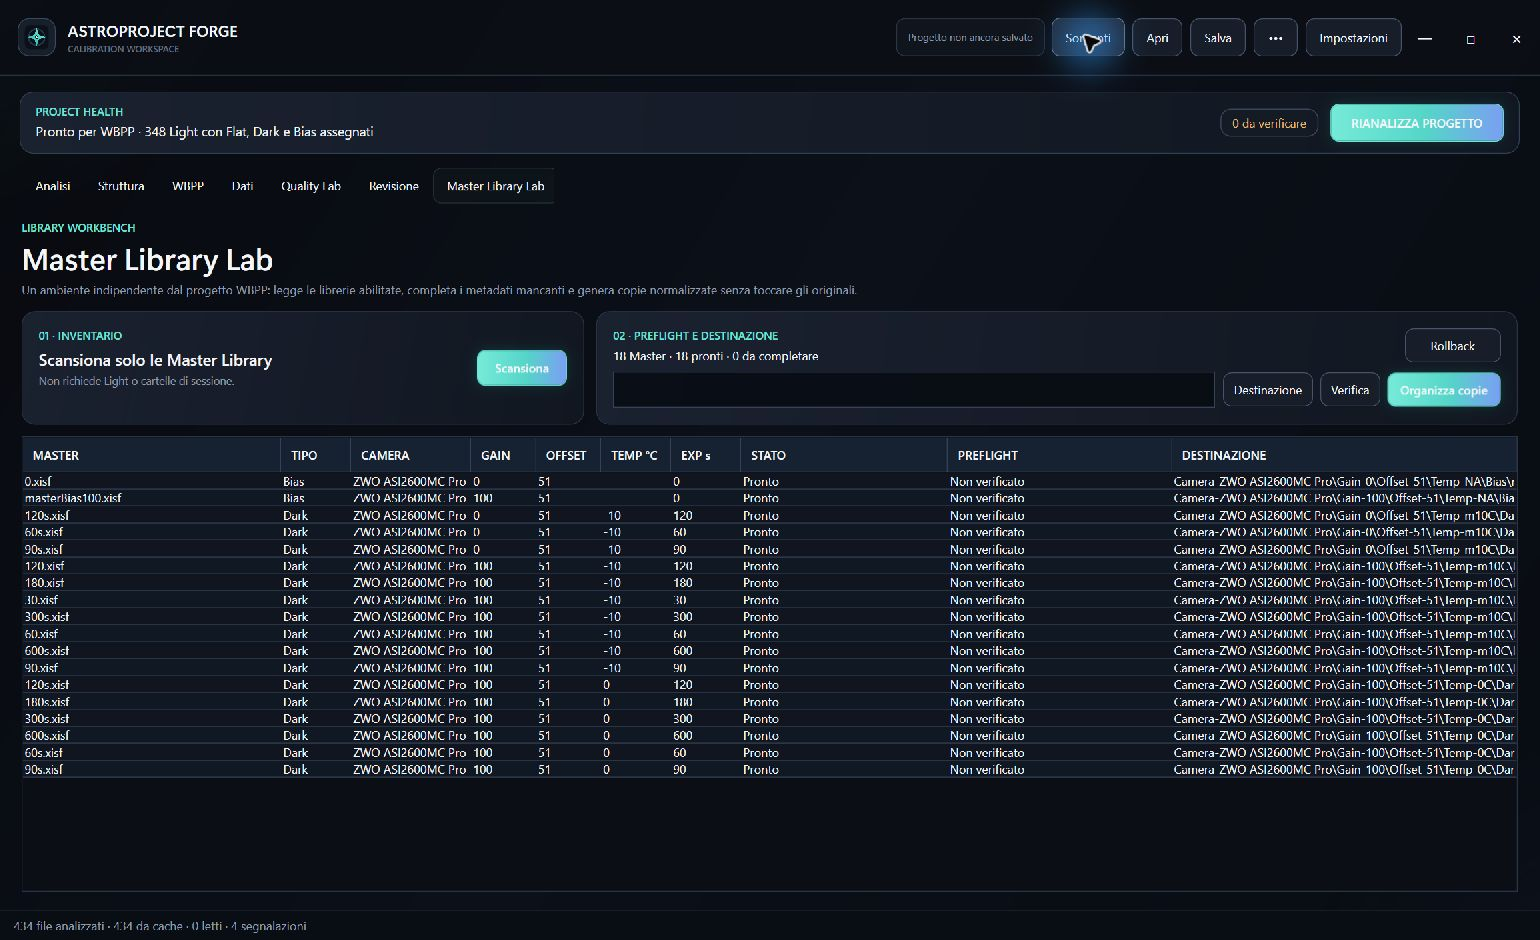
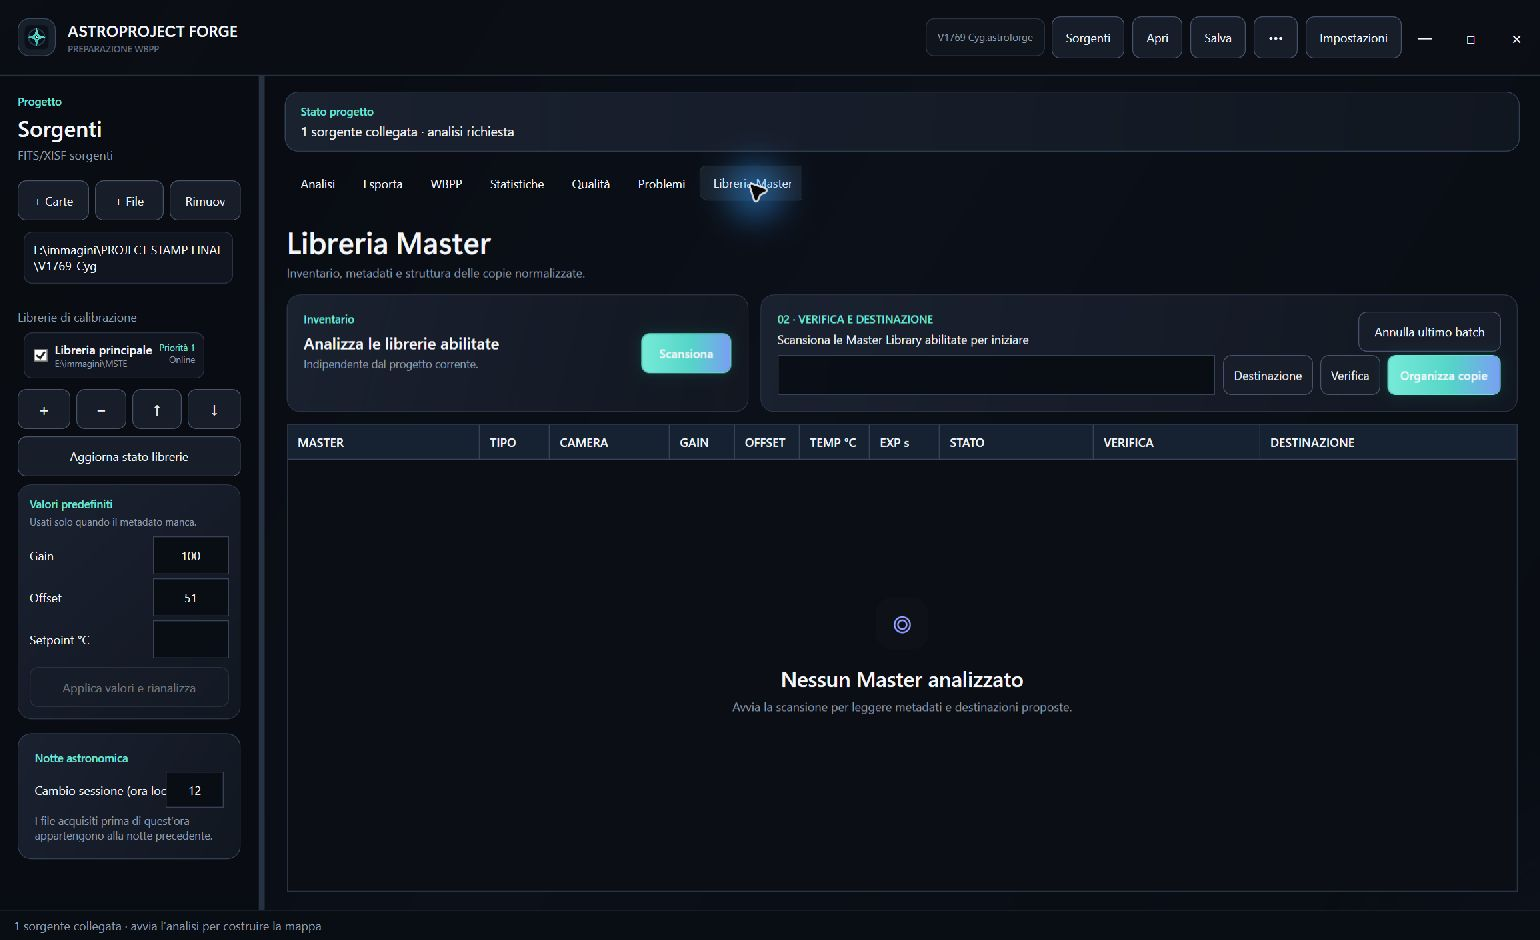
release: prepare 0.9.0-beta.2

diff --git a/dotnet/AstroForge.App/MainWindow.xaml.cs b/dotnet/AstroForge.App/MainWindow.xaml.cs
@@ -243,6 +243,7 @@ public partial class MainWindow : Window
     private async void MainWindow_Loaded(object sender, RoutedEventArgs e)
     {
         ApplyUiPreferences();
+        UpdateWorkspaceContext();
         if (!_viewModel.ReducedMotion)
         {
             RootSurface.Opacity = 0;
@@ -256,12 +257,20 @@ public partial class MainWindow : Window
 
     private void WorkspaceTabs_SelectionChanged(object sender, System.Windows.Controls.SelectionChangedEventArgs e)
     {
-        if (e.Source != WorkspaceTabs) return;
-        var header = (WorkspaceTabs.SelectedItem as System.Windows.Controls.TabItem)?.Header?.ToString() ?? "";
-        _inspectorContextAvailable = header is "Analisi" or "Struttura" or "Revisione";
-        if (!header.Contains("QUALITY", StringComparison.OrdinalIgnoreCase)) StopBlink();
+        if (!IsLoaded) return;
+        Dispatcher.BeginInvoke(new Action(() =>
+        {
+            UpdateWorkspaceContext();
+            AnimateWorkspaceTransition();
+        }), DispatcherPriority.Loaded);
+    }
+
+    private void UpdateWorkspaceContext()
+    {
+        var selectedTab = WorkspaceTabs.SelectedItem as System.Windows.Controls.TabItem;
+        _inspectorContextAvailable = string.Equals(selectedTab?.Tag?.ToString(), "Inspector", StringComparison.Ordinal);
+        if (!string.Equals(selectedTab?.Header?.ToString(), "Qualità", StringComparison.Ordinal)) StopBlink();
         ApplyResponsiveLayout();
-        AnimateWorkspaceTransition();
     }
 
     private void AnimateWorkspaceTransition()
@@ -589,9 +598,9 @@ public partial class MainWindow : Window
 
     private async void RollbackMasterOrganizer_Click(object sender, RoutedEventArgs e)
     {
-        if (MessageBox.Show(this, "Annullare l’ultimo batch creato da AstroProject Forge? Verranno eliminate soltanto le copie elencate nel manifest e solo se i loro hash sono invariati. Gli originali non saranno toccati.", "Rollback Master Library", MessageBoxButton.YesNo, MessageBoxImage.Warning) != MessageBoxResult.Yes) return;
-        try { await _viewModel.RollbackMasterOrganizerAsync(); MessageBox.Show(this, _viewModel.MasterOrganizerStatus, "Rollback completato", MessageBoxButton.OK, MessageBoxImage.Information); }
-        catch (Exception exception) { ShowError("AF-MASTER-ROLLBACK-001", "Rollback interrotto", exception, MessageBoxImage.Warning); }
+        if (MessageBox.Show(this, "Annullare l’ultimo batch? Verranno rimosse soltanto le copie elencate nel manifest e solo se non sono state modificate. Gli originali resteranno intatti.", "Annulla ultimo batch", MessageBoxButton.YesNo, MessageBoxImage.Warning) != MessageBoxResult.Yes) return;
+        try { await _viewModel.RollbackMasterOrganizerAsync(); MessageBox.Show(this, _viewModel.MasterOrganizerStatus, "Batch annullato", MessageBoxButton.OK, MessageBoxImage.Information); }
+        catch (Exception exception) { ShowError("AF-MASTER-ROLLBACK-001", "Impossibile annullare il batch", exception, MessageBoxImage.Warning); }
     }
 
     private async void ScanMasterLibraries_Click(object sender, RoutedEventArgs e)

diff --git a/dotnet/AstroForge.App/ViewModels/MainViewModel.cs b/dotnet/AstroForge.App/ViewModels/MainViewModel.cs
@@ -225,9 +225,9 @@ public sealed class MainViewModel : BindableBase
     }
     public string AnalysisPromptTitle => _awaitingReanalysis ? "Le sorgenti sono cambiate" : "Sorgenti collegate";
     public string AnalysisPromptDetail => _awaitingReanalysis
-        ? "La mappa precedente è stata ritirata per evitare risultati obsoleti. Rianalizza per includere tutti i percorsi correnti."
-        : "I percorsi sono pronti. L’analisi leggerà gli header e costruirà filtri, notti e sessioni senza modificare gli originali.";
-    public string AnalysisActionLabel => IsScanning ? "ANALISI IN CORSO…" : HasAnalysis || _awaitingReanalysis ? "RIANALIZZA PROGETTO" : "ANALIZZA PROGETTO";
+        ? "Rianalizza per includere le sorgenti correnti."
+        : "Legge gli header e raggruppa i file per filtro, notte e sessione. Gli originali non vengono modificati.";
+    public string AnalysisActionLabel => IsScanning ? "Analisi in corso…" : HasAnalysis || _awaitingReanalysis ? "Rianalizza" : "Analizza";
     public string RecoverySummary => _pendingRecovery is null
         ? "Nessun recupero necessario"
         : $"{_pendingRecovery.Operation} interrotta il {_pendingRecovery.StartedAtUtc.ToLocalTime():dd MMM yyyy 'alle' HH:mm}. Puoi ripristinare la fotografia del progetto precedente all’operazione.";
@@ -605,7 +605,7 @@ public sealed class MainViewModel : BindableBase
         var plan = await MasterLibraryOrganizer.PlanAsync(MasterOrganizerRequests(), MasterOrganizerDestination, cancellationToken);
         ApplyMasterOrganizerPlan(plan);
         var conflicts = plan.Count(item => item.Status != MasterOrganizationPlanStatus.Ready);
-        MasterOrganizerStatus = conflicts == 0 ? $"Preflight superato · {plan.Count} Master pronti" : $"Preflight bloccato · {conflicts} conflitti su {plan.Count} Master";
+        MasterOrganizerStatus = conflicts == 0 ? $"Verifica completata · {plan.Count} Master pronti" : $"Verifica bloccata · {conflicts} conflitti su {plan.Count} Master";
         Status = MasterOrganizerStatus;
     }
 
@@ -616,8 +616,8 @@ public sealed class MainViewModel : BindableBase
         try
         {
             var removed = await MasterLibraryOrganizer.RollbackAsync(MasterOrganizerDestination, cancellationToken);
-            foreach (var item in MasterOrganizerItems) item.SetPreflight("Rollback completato");
-            MasterOrganizerStatus = $"Rollback completato · rimosse {removed} copie verificate · originali intatti";
+            foreach (var item in MasterOrganizerItems) item.SetPreflight("Batch annullato");
+            MasterOrganizerStatus = $"Batch annullato · rimosse {removed} copie verificate · originali intatti";
             Status = MasterOrganizerStatus;
             tracked.Complete("AF-MASTER-ROLLBACK-OK", $"Rollback completato: {removed} copie rimosse");
         }
@@ -784,7 +784,7 @@ public sealed class MainViewModel : BindableBase
     public async Task ScanAsync(CancellationToken cancellationToken = default)
     {
         var availableLibraries = MasterLibraries.Where(item => item.Enabled && item.IsOnline).ToArray();
-        if (SourcePaths.Count == 0) { Status = "Aggiungi almeno una sorgente FITS/XISF. Il Master Library Lab resta disponibile separatamente."; return; }
+        if (SourcePaths.Count == 0) { Status = "Aggiungi almeno una sorgente FITS/XISF. La Libreria Master è disponibile separatamente."; return; }
         using var tracked = BeginTrackedOperation("Analisi progetto", "AF-SCAN-START", "Analisi progetto avviata");
         IsScanning = true;
         Progress = 0;
@@ -1764,7 +1764,7 @@ public sealed class MainViewModel : BindableBase
         foreach (var note in recipe.Notes) WbppNotes.Add(note);
 
         ReadinessText = _analysis.Lights.Count == 0
-            ? $"Modalità Master Library · {_frames.Count(frame => frame.IsMaster)} Master analizzati"
+            ? $"Libreria Master · {_frames.Count(frame => frame.IsMaster)} Master analizzati"
             : _analysis.Ready
                 ? $"Pronto per WBPP · {_analysis.Lights.Count} Light con Flat, Dark e Bias assegnati"
                 : $"Da risolvere · {_analysis.UnresolvedCount} assegnazioni di calibrazione mancanti o ambigue";

diff --git a/docs/RELEASE_NOTES_0.9.0-beta.2.md b/docs/RELEASE_NOTES_0.9.0-beta.2.md
@@ -1,0 +1,41 @@
+# AstroProject Forge 0.9.0-beta.2
+
+## English
+
+This beta aligns the Windows, Linux and macOS interfaces around the same clear workflow.
+
+### Changes
+
+- concise workspace names and descriptions across all platforms;
+- contextual Inspector hidden where it is not used;
+- tooltips for file exclusion, metadata defaults, manual Flat links, Master organization and verified export;
+- Quality distribution, threshold, suspect count and filtered list now share the same score contract;
+- cross-platform parity checks updated to cover all eight workspaces.
+
+### Signing status
+
+- Windows packages are self-contained but not Authenticode-signed;
+- macOS packages are ad-hoc signed but not Apple-notarized;
+- Linux packages include checksums and release metadata.
+
+Authentic signing requires the project owner’s private signing certificate and platform credentials. No self-signed certificate is used.
+
+## Italiano
+
+Questa beta allinea le interfacce Windows, Linux e macOS attorno allo stesso flusso di lavoro.
+
+### Modifiche
+
+- nomi e descrizioni concisi in tutte le piattaforme;
+- Inspector contestuale nascosto dove non viene usato;
+- tooltip per esclusione file, valori predefiniti, collegamenti Flat manuali, organizzazione Master ed export verificato;
+- distribuzione Quality, soglia, conteggio sospetti e lista filtrata ora usano lo stesso score;
+- controllo di parità aggiornato sulle otto aree funzionali.
+
+### Stato firma
+
+- i pacchetti Windows sono self-contained ma non firmati Authenticode;
+- i pacchetti macOS sono firmati ad-hoc ma non notarizzati da Apple;
+- i pacchetti Linux includono checksum e metadati di release.
+
+La firma attendibile richiede il certificato privato e le credenziali di piattaforma del titolare. Non viene usato un certificato autofirmato.

diff --git a/README.md b/README.md
@@ -38,7 +38,7 @@ Automatic evidence is used when it is strong. Ambiguous files stay visible and e
 - non-destructive per-file and group overrides;
 - integration time by filter, configuration session and night;
 - adaptive PixInsight WBPP Grouping Keywords (`FLATSET`, `DARKSET`, `BIASSET`, `TARGET`);
-- optional Quality Lab for FWHM, eccentricity, noise, SNR, stars, robust outliers, Blink and safe exclusion;
+- optional Quality analysis for FWHM, eccentricity, noise, SNR, stars, robust outliers, Blink and safe exclusion;
 - resumable project export with preflight checks, SHA-256 verification, manifest and reports;
 - local diagnostics and support bundles without image pixels.
 
@@ -48,11 +48,11 @@ Automatic evidence is used when it is strong. Ambiguous files stay visible and e
 
 The dashboard makes the dataset measurable: total integration, filter coverage, session boundaries, night counts, Gain, temperature and calibration readiness are visible before PixInsight is opened.
 
-## Master Library Lab
+## Master Library
 
-![Master Library Lab with camera-first inventory](docs/images/master-library-lab.png)
+![Master Library with camera-first inventory](docs/images/master-library-lab.png)
 
-Master Library Lab is independent from project analysis. It can scan Dark/Bias libraries with no Light folders loaded, ask only for metadata that cannot be proven, preview a normalized camera-first layout, then stamp and copy verified files without touching the originals.
+Master Library is independent from project analysis. It can scan Dark/Bias libraries with no Light folders loaded, ask only for metadata that cannot be proven, preview a normalized camera-first layout, then stamp and copy verified files without touching the originals.
 
 Recommended layout:
 

diff --git a/docs/README.it.md b/docs/README.it.md
@@ -38,7 +38,7 @@ L’automazione viene usata quando le prove sono solide. I file ambigui restano 
 - override non distruttivi sul singolo file o su gruppi;
 - integrazione per filtro, sessione di configurazione e notte;
 - Grouping Keywords PixInsight WBPP adattive (`FLATSET`, `DARKSET`, `BIASSET`, `TARGET`);
-- Quality Lab opzionale con FWHM, eccentricità, rumore, SNR, stelle, outlier robusti, Blink ed esclusione sicura;
+- analisi Qualità opzionale con FWHM, eccentricità, rumore, SNR, stelle, outlier robusti, Blink ed esclusione sicura;
 - export riprendibile con preflight, verifica SHA-256, manifest e report;
 - diagnostica locale e support bundle senza pixel delle immagini.
 
@@ -48,11 +48,11 @@ L’automazione viene usata quando le prove sono solide. I file ambigui restano 
 
 La dashboard rende il dataset misurabile: integrazione totale, copertura per filtro, sessioni, notti, Gain, temperatura e stato delle calibrazioni sono visibili prima di aprire PixInsight.
 
-## Master Library Lab
+## Libreria Master
 
-![Master Library Lab con inventario camera-first](images/master-library-lab.png)
+![Libreria Master con inventario organizzato per camera](images/master-library-lab.png)
 
-Master Library Lab è indipendente dall’analisi del progetto. Può scansionare Dark e Bias senza caricare Light, chiedere soltanto i metadati non dimostrabili, mostrare una struttura normalizzata che parte dalla camera e creare copie verificate senza toccare gli originali.
+La Libreria Master è indipendente dall’analisi del progetto. Può scansionare Dark e Bias senza caricare Light, chiedere soltanto i metadati non dimostrabili, mostrare una struttura normalizzata che parte dalla camera e creare copie verificate senza toccare gli originali.
 
 Struttura consigliata:
 

diff --git a/docs/CHANGELOG.md b/docs/CHANGELOG.md
@@ -1,11 +1,15 @@
 # AstroProject Forge — note di rilascio
 
-## Unreleased - contratto soglia Quality Lab
+## 0.9.0-beta.2 — 22 luglio 2026
 
 - Linea di soglia, punti arancioni, conteggio e lista dei sospetti usano ora lo stesso score aggregato.
 - Rimossa la curva gaussiana fuorviante: il grafico mostra zone operative accettata/da verificare e un istogramma coerente con la soglia.
 - Aggiunti click sui punti, conteggi separati per sospetti ed esclusi, filtro tabella `Solo sospetti` e azione di esclusione con conteggio esplicito.
 - Il grafico conserva sempre l'intera serie filtro/sessione anche quando la tabella viene filtrata.
+- Terminologia e microcopy riscritte su Windows, Linux e macOS: schede e azioni usano nomi brevi e descrittivi.
+- Tooltip aggiunti alle operazioni non immediate o con conseguenze sui file; rimossi slogan e nomi sperimentali dalla UI.
+- L’Inspector viene nascosto nelle aree che non lo usano, inclusa Libreria Master.
+- Contratto di parità aggiornato per bloccare divergenze future tra le interfacce native.
 
 ## 0.9.0-beta.1 — 17 luglio 2026
 

diff --git a/docs/PIANO_READY_TO_SELL.md b/docs/PIANO_READY_TO_SELL.md
@@ -6,6 +6,8 @@
 
 > Pubblicazione beta 22 luglio 2026: repository ripulito, README italiano/inglese riscritto, screenshot reali rigenerati senza percorsi sorgente visibili, guida Master Library, SECURITY e CONTRIBUTING aggiunti. Il codice è pubblicamente ispezionabile con licenza proprietaria “all rights reserved”; una licenza open source richiede una decisione esplicita futura.
 
+> Beta 0.9.0-beta.2: terminologia e microcopy uniformate su Windows, Linux e macOS; tooltip contestuali aggiunti alle operazioni non immediate; Inspector nascosto fuori dai workspace che lo usano; screenshot e controllo automatico di parità aggiornati. Firma Authenticode e notarizzazione restano bloccate dall’assenza delle credenziali private del titolare.
+
 ## Scopo
 
 Portare AstroProject Forge dall’attuale build funzionante a un prodotto Windows